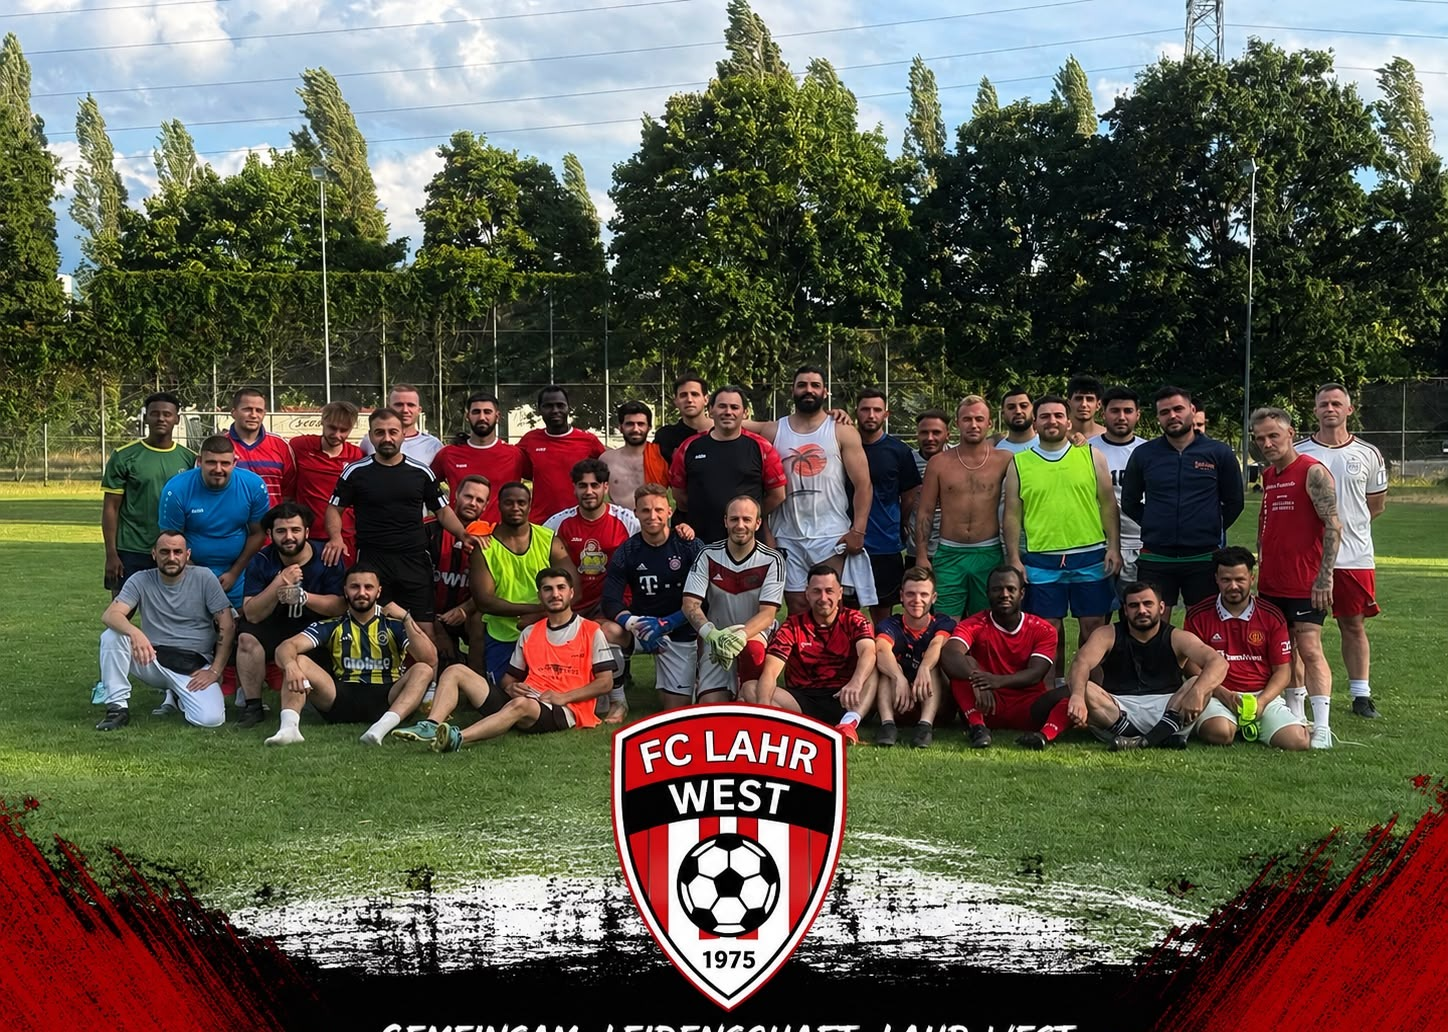
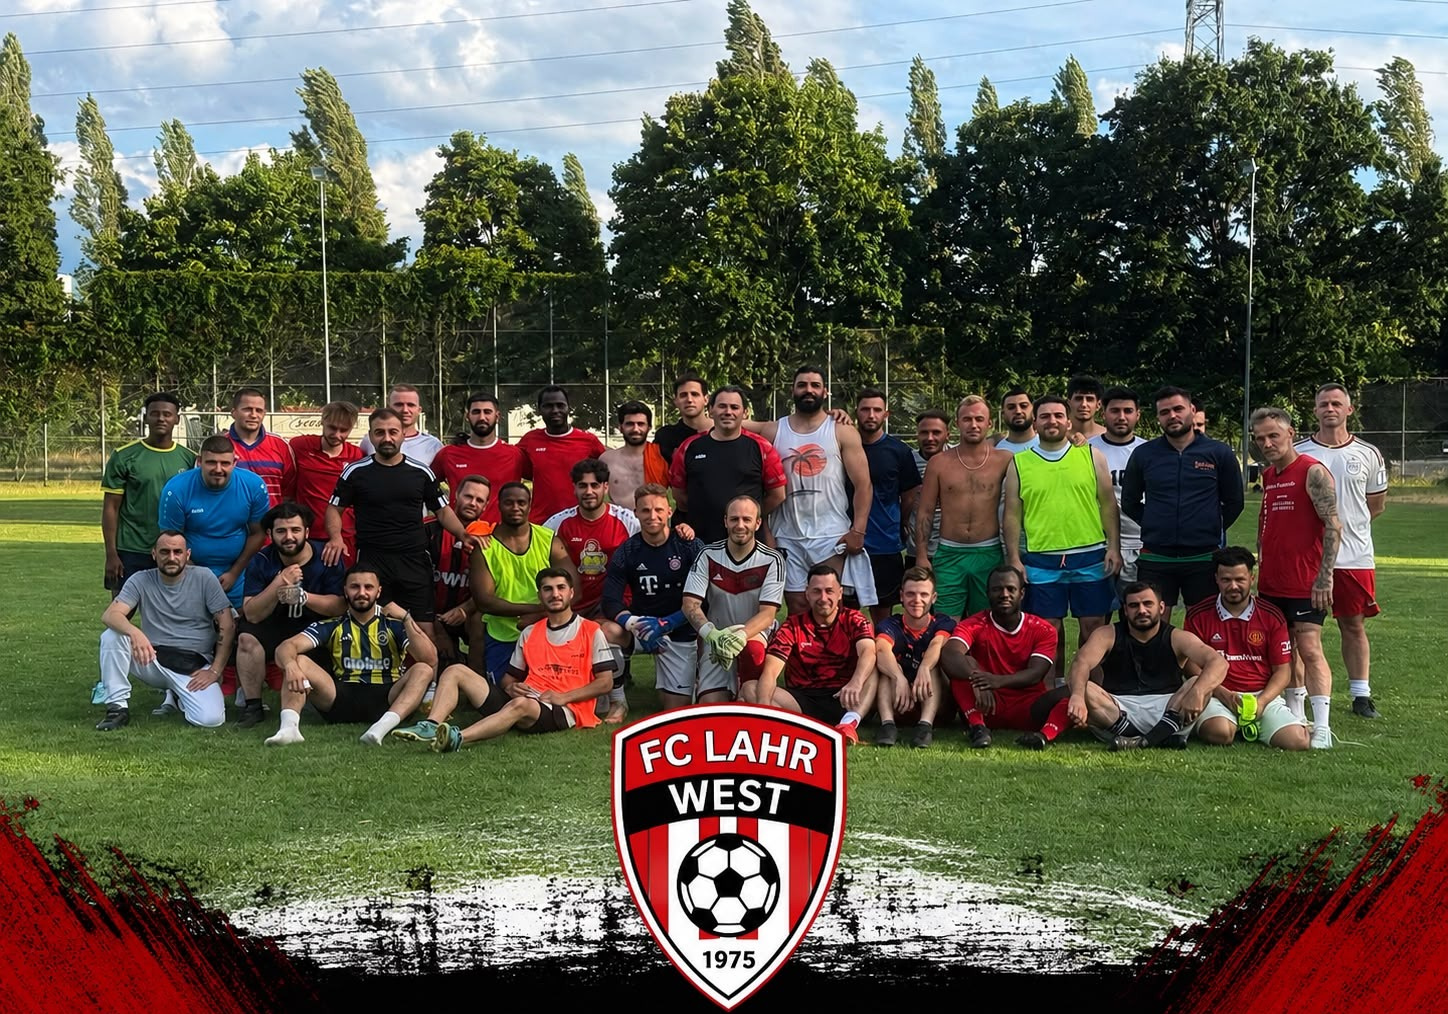
Crop slogan off hero image and drop Google rating block
- hero-team.jpg: crop the bottom down to the tip of the crest (1032 -> 1014px)
  so the partially visible "Gemeinsam Leidenschaft Lahr West" lettering is gone
  while the full crest stays in frame.
- ContactSection: remove the 5-star Google rating block and replace it with a
  plain club subtitle.

Claude-Session: https://claude.ai/code/session_01W36UUaLHMbdMnQojr8mXvv

diff --git a/components/ContactSection.jsx b/components/ContactSection.jsx
@@ -12,7 +12,7 @@ import { Button } from '@/components/ui/button';
 import { Input } from '@/components/ui/input';
 import { Textarea } from '@/components/ui/textarea';
 import { Form, FormControl, FormField, FormItem, FormLabel, FormMessage } from '@/components/ui/form';
-import { Mail, Phone, MapPin, Send, ExternalLink, Star } from 'lucide-react';
+import { Mail, Phone, MapPin, Send, ExternalLink } from 'lucide-react';
 
 const formSchema = z.object({
   name: z.string().min(2, 'Name muss mindestens 2 Zeichen lang sein'),
@@ -71,17 +71,7 @@ export default function ContactSection() {
                 />
                 <div>
                   <h3 className="text-2xl font-semibold">FC Lahr-West 1975 e.V.</h3>
-                  <div className="flex items-center gap-1 mt-2">
-                    <div className="flex gap-0.5">
-                      {[...Array(5)].map((_, i) => (
-                        <Star
-                          key={i}
-                          className={`h-4 w-4 ${i < 4 ? 'fill-yellow-400 text-yellow-400' : 'text-gray-300'}`}
-                        />
-                      ))}
-                    </div>
-                    <span className="text-sm text-muted-foreground ml-2">3.9 (14 Bewertungen)</span>
-                  </div>
+                  <p className="text-sm text-muted-foreground mt-1">Gegründet 1975 · Lahr/Schwarzwald</p>
                 </div>
               </div>
 
